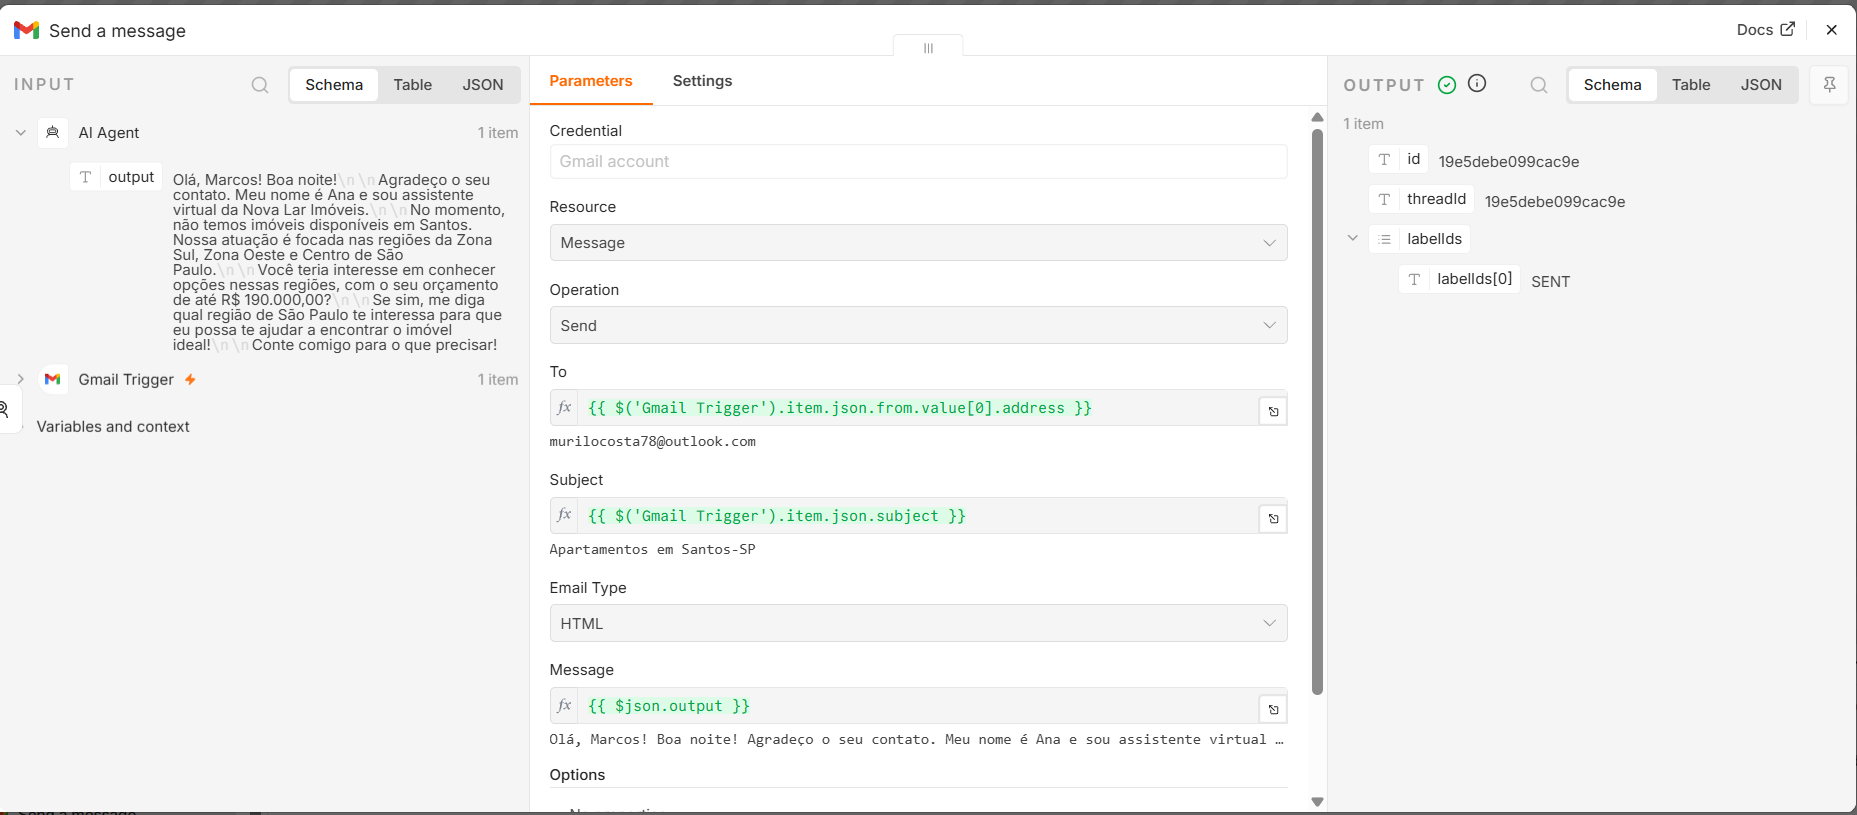
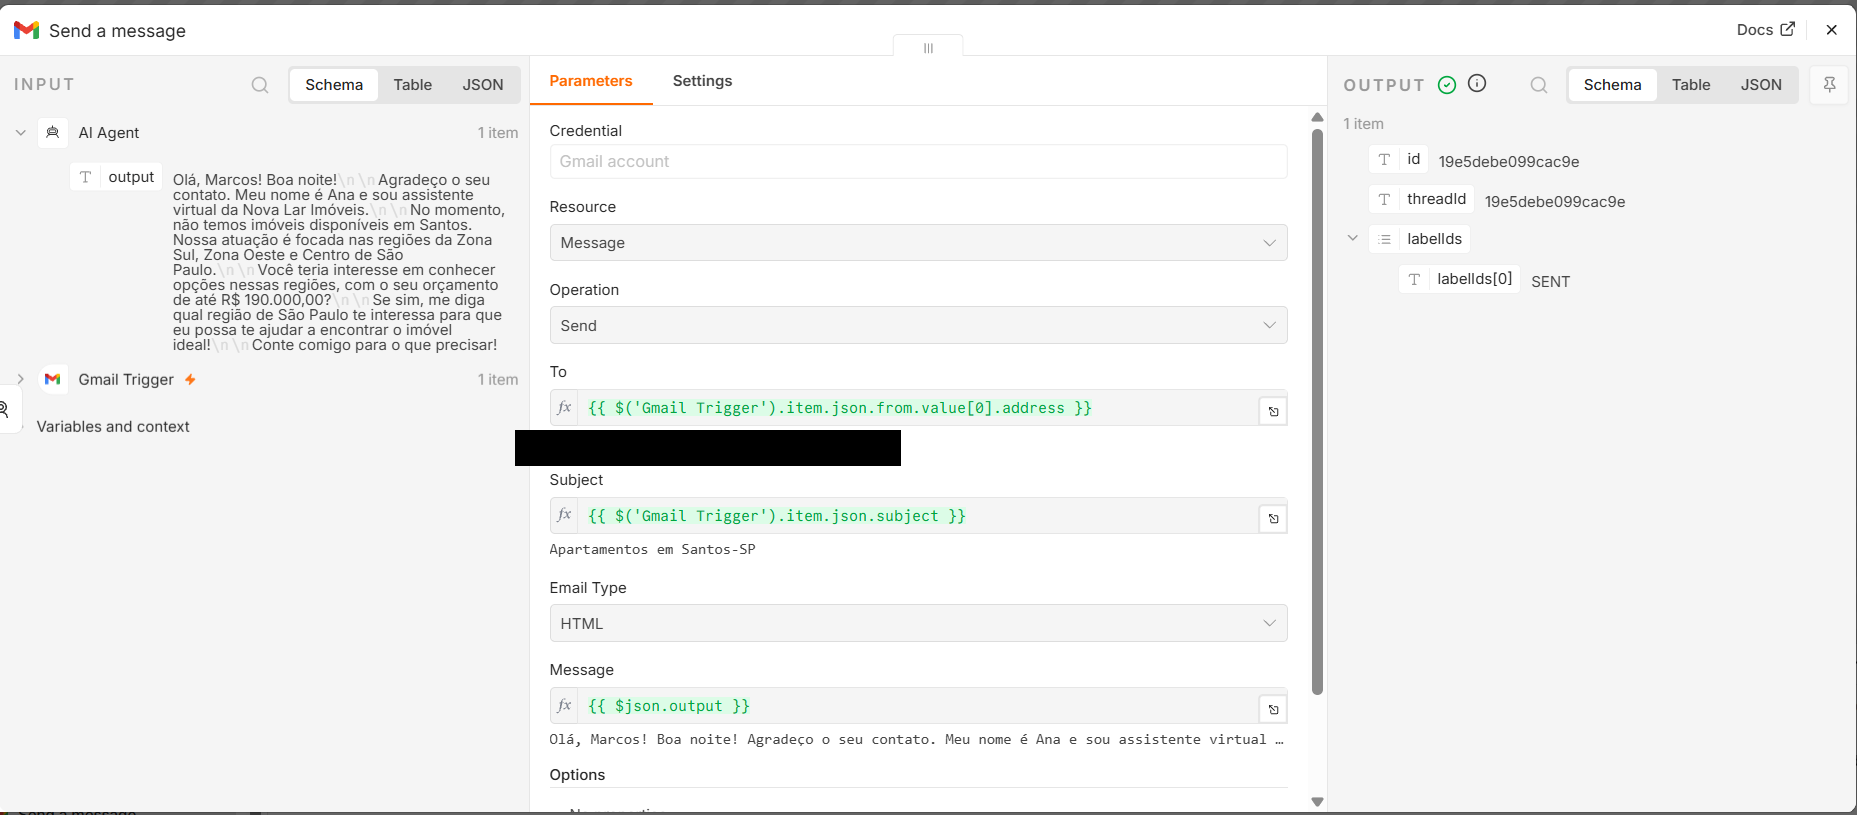
Prepare workflow for n8n Creator Portal submission
Sanitize and internationalize the AI Real Estate CRM Agent template:
rename generic nodes to functional names, add configuration Sticky
Notes, redact personal contact info from screenshots, translate the
AI agent system prompt and tool notes to English (spreadsheet field
names kept in Portuguese to match the required CRM columns), remove
a stray leftover file, and rewrite README.md in English to document
the final workflow exactly.

Claude-Session: https://claude.ai/code/session_01ArrrKpfbRhfNUJbUUVwgHz

Changed region(s): [[0.2811, 0.5215, 0.4997, 0.5828]]

diff --git a/README.md b/README.md
@@ -1,130 +1,168 @@
-# AI Real Estate Assistant
+# AI Real Estate CRM Agent
 
-## Objetivo
+## Overview
 
-Automatizar o atendimento inicial de leads imobiliários utilizando IA Generativa, Gmail, Google Sheets e n8n.
+This n8n template automates the first line of email support for a real estate agency. It reads incoming emails, uses an LLM-powered agent to understand what the client wants, optionally looks up available properties and registers/updates a lead in a Google Sheets CRM, then replies to the client by email — all without human intervention.
 
-O agente é capaz de:
+The template ships with example business content (a fictitious agency and sample property listings) so it can be imported and tested immediately. The AI persona's instructions are written in English; the CRM spreadsheet field names remain in Portuguese by design (see [Configuration Guide](#configuration-guide)). Everything sample-specific is meant to be replaced with your own data before production use.
 
-- Ler e-mails automaticamente
-- Identificar intenção do cliente
-- Extrair informações relevantes
-- Consultar imóveis disponíveis
-- Registrar leads automaticamente
-- Responder clientes utilizando IA
-- Organizar dados em uma base CRM
+## Use Case
 
----
+Real estate agencies (or any lead-driven business) that want to:
 
-## Tecnologias utilizadas
+- Give every inbound email a fast, consistent first response
+- Automatically qualify and log leads without manual data entry
+- Let an AI agent answer routine questions (availability, pricing ranges, documentation, process steps) while keeping a record of the conversation
 
-- n8n
-- Google Gemini
-- OpenAI
-- Gmail Trigger
-- Google Sheets
-- Redis Memory
-- AI Agent
-- Prompt Engineering
+## How It Works
 
----
+1. **Gmail Trigger** polls the connected inbox for new emails.
+2. The **Real Estate AI Agent** (a LangChain agent node) receives the email body and, guided by its system prompt, decides what to do.
+3. If the client asks about properties, the agent calls the **Search Available Properties** tool, which reads a Google Sheets listing.
+4. If the client shows real buying/renting interest, the agent calls the **Register Lead in CRM** tool, which appends or updates a row in a Google Sheets CRM (matched by email address).
+5. The agent drafts an HTML reply and **Send Email Reply (Gmail)** sends it back to the original sender, reusing the original subject line.
+6. **Conversation Memory (Redis)** keeps short-term context per email thread, so the agent remembers earlier messages in the same conversation.
+7. The agent uses **Google Gemini** as its primary language model, automatically falling back to **OpenAI** if the primary model fails.
 
-## Fluxo da automação
+## Features
 
-1. Recebimento automático de e-mail
-2. Interpretação da mensagem usando IA
-3. Identificação de intenção:
-   - compra
-   - aluguel
-   - região
-   - orçamento
-4. Consulta de imóveis disponíveis
-5. Registro automático do lead no CRM
-6. Resposta automática personalizada
-7. Persistência de contexto com memória
+- Automated, context-aware email replies via an LLM agent
+- Automatic lead capture and CRM update in Google Sheets (create or update, matched on email)
+- Property lookup against a Google Sheets listing before answering availability questions
+- Per-thread conversation memory backed by Redis
+- Primary/fallback LLM setup (Google Gemini + OpenAI)
+- HTML-formatted email responses
 
----
+## Workflow Architecture
 
-## Funcionalidades
+```
+Gmail Trigger
+     │
+     ▼
+Real Estate AI Agent ──▶ Send Email Reply (Gmail)
+     │        │  │  │
+     │        │  │  └── Primary AI Model (Google Gemini)
+     │        │  └───── Fallback AI Model (OpenAI)
+     │        └──────── Conversation Memory (Redis)
+     └───────────────── Search Available Properties (tool)
+                         Register Lead in CRM (tool)
+```
 
-### Atendimento automatizado
+The workflow contains 8 functional nodes plus sticky notes documenting configuration. Nodes were renamed from n8n's generic defaults (e.g. "AI Agent", "Send a message") to functional names describing what each one does.
 
-O agente responde automaticamente dúvidas de clientes sobre imóveis.
+## Requirements
 
-### Registro automático de leads
+- A self-hosted or cloud n8n instance with the following node packages available: `n8n-nodes-base` (Gmail, Google Sheets) and `@n8n/n8n-nodes-langchain` (Agent, Chat Models, Redis Memory)
+- A Gmail account that can be connected via OAuth2
+- A Google account with two Google Sheets tabs (properties + leads) — see [Configuration Guide](#configuration-guide)
+- A Google Gemini API key
+- An OpenAI API key
+- A reachable Redis instance (self-hosted or managed)
 
-Leads são registrados automaticamente no Google Sheets.
+## Required Credentials
 
-### Integração com Gmail e Outlook
+None of the credentials are included in the exported JSON. After importing, you must create and assign your own credentials for:
 
-O fluxo responde corretamente remetentes externos.
+| Credential | Used by |
+|---|---|
+| Gmail OAuth2 | Gmail Trigger, Send Email Reply (Gmail) |
+| Google Sheets OAuth2 | Search Available Properties, Register Lead in CRM |
+| Google Gemini (PaLM) API | Primary AI Model (Google Gemini) |
+| OpenAI API | Fallback AI Model (OpenAI) |
+| Redis | Conversation Memory (Redis) |
 
-### Memória contextual
+## Installation
 
-O agente mantém contexto usando Redis Memory.
+1. In n8n, go to **Workflows → Import from File** and select `agente_imobiliario_sanitized.json`.
+2. Open every credential-enabled node and assign your own credential (see table above).
+3. Open **Search Available Properties** and **Register Lead in CRM** and point each one to your own Google Sheets document and tab (the original document reference has been removed from the template).
+4. Review and edit the system prompt on **Real Estate AI Agent** to reflect your own business (see [Configuration Guide](#configuration-guide)).
+5. Activate the workflow.
 
-### IA aplicada ao negócio
+## Configuration Guide
 
-Uso de IA para:
-- interpretação de intenção
-- classificação
-- resumo da conversa
-- preenchimento automático de CRM
+Each integration is also documented directly on the canvas via sticky notes. Summary:
 
----
+- **Trigger**: Gmail Trigger polls every minute and pulls up to 5 emails per run — adjust in the node's options if needed.
+- **AI Model**: Google Gemini (`gemini-2.5-flash`) is the primary model; OpenAI (`gpt-5-mini`) is the fallback, used automatically if the primary model errors out. Both are swappable for other models supported by their respective nodes.
+- **Memory**: Redis stores conversation history keyed by the Gmail thread ID (`sessionTTL` = 100s, `contextWindowLength` = 30 messages).
+- **Properties sheet**: expects columns such as ID, Tipo, Modalidade, Bairro, Metragem, Quartos, Suítes, Vagas, Preço, Condomínio and Destaques — adapt to your own listings.
+- **Leads/CRM sheet**: written via append-or-update, matched on the "E-mail" column. Expected columns: Data, Nome, E-mail, Telefone, Região de Preferência, Orçamento Máximo, Imóvel de Interesse (ID), Resumo da Conversa, Status, Próximo Passo.
+- **AI persona**: the system prompt on the agent node is written in English for a fictitious agency ("Nova Lar Imóveis") based in São Paulo, Brazil, with example pricing, service areas, business hours and FAQs. Replace the business details with your own — but keep the tool-usage instructions, since the agent depends on them to decide when to search properties or register a lead.
+- **CRM/spreadsheet field names**: the Google Sheets column names referenced by "Register Lead in CRM" (e.g. "Região de Preferência", "Orçamento Máximo (R$)") are intentionally kept in Portuguese, since they must match the header names of the target spreadsheet exactly. If you rename the columns in your own sheet, update the corresponding field mappings on that node to match.
 
-# Evidências
+## AI Processing
 
-## Workflow completo
+The **Real Estate AI Agent** node is a LangChain agent that:
 
-![Workflow](imagem/01-workflow-completo.png)
+- Receives the raw email text as input
+- Follows a detailed system prompt that defines its persona, tone, business knowledge, FAQs and mandatory tool-usage rules
+- Decides autonomously whether to call the property search tool, the lead registration tool, both, or neither, before composing its reply
+- Always responds in valid HTML
+- Retries up to 2 times on failure (`retryOnFail`, `maxTries: 2`)
 
----
+## CRM / Lead Management
 
-## Estrutura de CRM no Google Sheets
+Leads are captured only when the agent detects genuine interest (property requests, budget/region/room information, visit requests, etc.), as defined in the system prompt. Missing fields are filled with default placeholder values (e.g. "Não informado", 0) so the row is never left incomplete. Existing leads are matched by email and updated rather than duplicated.
 
-![CRM](imagem/02-google-sheets-crm.png)
+## Testing
 
----
+To test after installation:
 
-## Resposta automática por e-mail
+1. Send an email to the connected Gmail account asking about property availability in a region present in your Properties sheet.
+2. Confirm the agent replies with an HTML email referencing your sheet data.
+3. Check your Leads/CRM sheet for a new or updated row for that sender.
+4. Send a follow-up email in the same thread and confirm the agent's reply reflects the earlier conversation (validates Redis memory).
+5. Temporarily invalidate the Gemini credential to confirm the OpenAI fallback model takes over.
 
-![Email](imagem/03-email-response.png)
+## Security
 
----
+- The exported JSON contains no credentials, API keys, tokens, or real spreadsheet/document identifiers — these were replaced with placeholders (e.g. `GOOGLE_SHEETS_URL_REMOVED`) or removed.
+- Sample screenshots in this repository have had any real personal contact information redacted.
+- All contact details, prices and company information in the system prompt are fictitious example content.
+- Review your own Gmail, Google Sheets and Redis access scopes before enabling this workflow against production data.
 
-## Ferramentas conectadas ao agente
+## Limitations
 
-![Agent Tools](imagem/04-agent-tools.png)
+- The agent relies entirely on the quality/coverage of the system prompt and the connected sheet data — it does not have a general-purpose knowledge base or vector search.
+- Property search and lead registration are Google Sheets based; there is no dedicated database or external CRM integration.
+- Conversation memory depends on Redis being reachable; if Redis is unavailable, the agent loses cross-message context but does not otherwise fail gracefully (this has not been implemented).
+- The workflow polls Gmail on a fixed interval rather than reacting to a push/webhook event.
+- The Google Sheets column names used by "Register Lead in CRM" are in Portuguese and must be replicated exactly on your own spreadsheet unless you also update the node's field mappings.
 
----
+## Troubleshooting
 
-## Execução concluída com sucesso
+- **No emails are picked up**: verify the Gmail OAuth2 credential has the correct scopes and that the poll interval/`maxResults` matches your expected volume.
+- **Agent replies without checking properties**: confirm the Google Sheets credential and document/tab are correctly set on "Search Available Properties" and that the sheet has data.
+- **Leads are not appearing in the CRM sheet**: check that "Register Lead in CRM" points to the correct sheet and that the "E-mail" column exists and matches the `matchingColumns` configuration.
+- **Agent doesn't remember earlier messages**: verify the Redis credential/connection and that `sessionKey` correctly resolves to the Gmail thread ID.
+- **Both AI models fail**: check API key validity and quota for both Google Gemini and OpenAI.
 
-![Execução](imagem/05-execucao-sucesso.png)
+## Customization
 
----
+- Rewrite the system prompt on "Real Estate AI Agent" for your own agency, language, and rules.
+- Swap the Google Gemini/OpenAI models for any other chat model node supported by `@n8n/n8n-nodes-langchain`.
+- Extend the CRM schema (add/remove columns) as long as you update the corresponding `$fromAI(...)` field mappings on "Register Lead in CRM".
+- Replace Redis memory with another supported memory node if you don't want to run Redis.
 
-## Arquivo do workflow
+## Repository Structure
 
-O arquivo `agente_imobiliario_sanitized.json` contém o fluxo exportado sem credenciais sensíveis.
+```
+.
+├── agente_imobiliario_sanitized.json   # Sanitized n8n workflow — import this file
+├── README.md                           # This file
+└── imagem/                             # Reference screenshots
+    ├── 01-workflow-completo.png
+    ├── 02-google-sheets-crm.png
+    ├── 03-email-response.png
+    ├── 04-agent-tools.png
+    └── 05-execucao-sucesso.png
+```
 
----
+## License
 
-## Possíveis evoluções
+No LICENSE file is currently included in this repository. All rights reserved by the author unless a license is added.
 
-- Integração com WhatsApp
-- Dashboard de leads
-- Integração com CRM imobiliário
-- Agendamento automático de visitas
-- Busca vetorial com IA
-- Multiatendimento
-- RAG com documentos imobiliários
+## Disclaimer
 
----
-
-## Autor
-
-Murilo Guimarães Costa
-
-Especialista em Projetos de TI | Automação | IA aplicada a processos
+This template is provided for educational and demonstration purposes. All company names, contact details, prices and property listings are fictitious sample data. You are responsible for your own credentials, API usage costs, data privacy compliance, and for reviewing the AI-generated content before using it with real clients.
